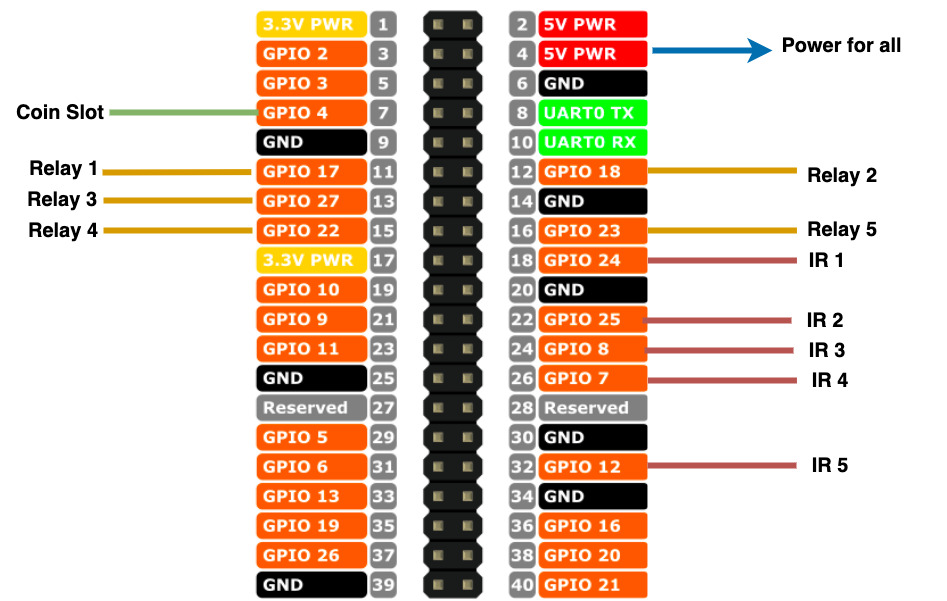
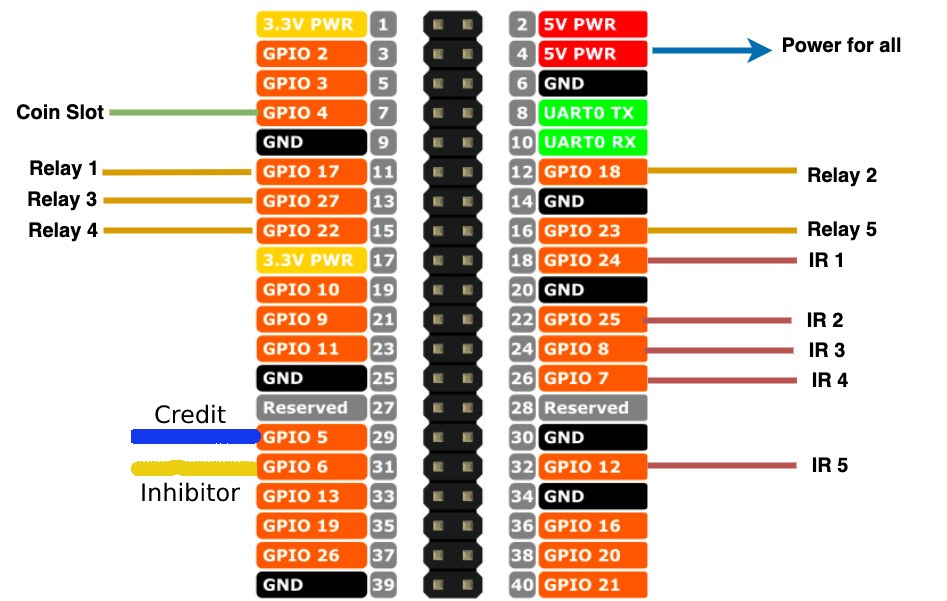
Update with bill acceptor

Changed region(s): [[0.1225, 0.6589, 0.2756, 0.8386]]

diff --git a/main.py b/main.py
@@ -8,6 +8,8 @@ GPIO.setmode(GPIO.BCM)
 
 # Define pins
 coin_pin = 4 
+bill_acceptor_pin = 5
+bill_inhibitor_pin = 6
 relay_1_pin = 17
 relay_2_pin = 18
 relay_3_pin = 27
@@ -20,6 +22,8 @@ ir_sensor_4_pin = 7
 ir_sensor_5_pin = 12
 
 GPIO.setup(coin_pin, GPIO.IN, pull_up_down=GPIO.PUD_UP)
+GPIO.setup(bill_acceptor_pin, GPIO.IN)
+GPIO.setup(bill_inhibitor_pin, GPIO.IN)
 GPIO.setup(relay_1_pin, GPIO.OUT)
 GPIO.setup(relay_2_pin, GPIO.OUT)
 GPIO.setup(relay_3_pin, GPIO.OUT)
@@ -39,6 +43,34 @@ prev_input_5 = GPIO.input(ir_sensor_5_pin)
 
 coin_count = 0
 last_time = 0
+DELAY_TIME = 0.5
+credit_flag = False
+credit_timer = 0
+
+# Interrupt callback for credit signal
+def credit_callback(channel):
+    global credit_flag
+    global credit_timer
+
+    # Set credit flag and timer
+    credit_flag = True
+    credit_timer = time.time()
+
+# Interrupt callback for Inhibitor+ signal
+def inhibitor_callback(channel):
+    global credit_flag
+    global credit_timer
+    global coin_count
+
+    # Check if credit flag is set and delay time has passed
+    if credit_flag and (time.time() - credit_timer) >= DELAY_TIME:
+        # Add credit and reset credit flag
+        coin_count += 1
+        credit_flag = False
+
+
+
+
 def pulse_detected(channel):
     global coin_count
     curr_time = time.time()
@@ -49,6 +81,10 @@ def pulse_detected(channel):
     lcd_coin_counter.display(coin_count)
 
 GPIO.add_event_detect(coin_pin, GPIO.FALLING, callback=pulse_detected)
+GPIO.add_event_detect(bill_acceptor_pin, GPIO.RISING, callback=credit_callback)
+# Set up interrupt detection for Inhibitor+ signal
+GPIO.add_event_detect(bill_inhibitor_pin, GPIO.RISING, callback=inhibitor_callback)
+
 
 app = QtWidgets.QApplication([])
 window = uic.loadUi("main.ui")

diff --git a/README.md b/README.md
@@ -22,6 +22,12 @@ coin_pin = 4
 ```
 
 ```
+Bill Acceptor
+bill_credit = 5
+bill_inhibitor = 6
+```
+
+```
 Relays 1 to 3 is for bills 100, 50 and 20. While relays 4 and 5 is for coins 5 and 1.
 relay_1_pin = 17
 relay_2_pin = 18
